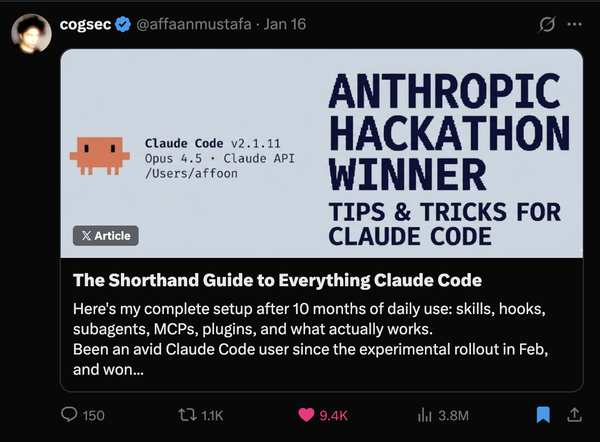
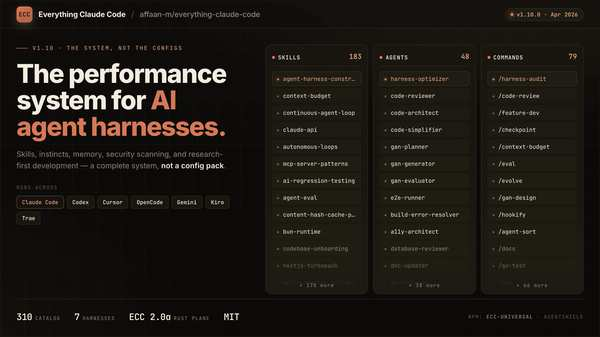
fix: replace GitHub trending images with actual README content
ECC: hero.png (shorthand guide) instead of tweet screenshot
headroom: HeadroomDemo-Fast.gif (terminal demo) instead of media player
Scrapling: spider_architecture.png instead of DataImpulse ad banner

diff --git a/docs/daily/ai-news-2026-06-03.html b/docs/daily/ai-news-2026-06-03.html
@@ -272,19 +272,19 @@ h3{font-size:14px;line-height:1.35;margin-bottom:7px}
     <div class="vitem">
       <div class="vitem-title">3. affaan-m/ECC ⭐ 1,533 · JavaScript</div>
       <div class="vitem-desc">Agent 性能优化系统。Skills、instincts、memory、安全性和研究优先开发——适用于 Claude Code、Codex、Opencode、Cursor 及更多。</div>
-      <div class="vitem-gallery"><img src="assets/2026-06-03/ecc.jpg" width="600" height="400" loading="lazy" alt="ECC shorthand guide"></div>
+      <div class="vitem-gallery"><img src="assets/2026-06-03/ecc.jpg" width="600" height="337" loading="lazy" alt="ECC: Claude Code shorthand guide hero"></div>
       <div class="vitem-actions"><a href="https://github.com/affaan-m/ECC" target="_blank" class="vitem-link">GitHub →</a></div>
     </div>
     <div class="vitem">
       <div class="vitem-title">4. chopratejas/headroom ⭐ 1,265 · Python</div>
       <div class="vitem-desc">压缩工具输出、日志、文件和 RAG chunks——在到达 LLM 之前减少 60-95% token 消耗，答案质量不变。库、代理、MCP 服务器三合一。</div>
-      <div class="vitem-gallery"><img src="assets/2026-06-03/headroom.jpg" width="600" height="400" loading="lazy" alt="headroom demo"></div>
+      <div class="vitem-gallery"><img src="assets/2026-06-03/headroom.jpg" width="600" height="337" loading="lazy" alt="headroom: token compression demo"></div>
       <div class="vitem-actions"><a href="https://github.com/chopratejas/headroom" target="_blank" class="vitem-link">GitHub →</a></div>
     </div>
     <div class="vitem">
       <div class="vitem-title">5. D4Vinci/Scrapling ⭐ 1,182 · Python</div>
       <div class="vitem-desc">自适应爬虫框架，从单次请求到全量抓取都能应对。现代 web scraping 的瑞士军刀。</div>
-      <div class="vitem-gallery"><img src="assets/2026-06-03/scrapling.jpg" width="600" height="400" loading="lazy" alt="Scrapling"></div>
+      <div class="vitem-gallery"><img src="assets/2026-06-03/scrapling.jpg" width="600" height="337" loading="lazy" alt="Scrapling: spider architecture"></div>
       <div class="vitem-actions"><a href="https://github.com/D4Vinci/Scrapling" target="_blank" class="vitem-link">GitHub →</a></div>
     </div>
     <div class="vitem">
